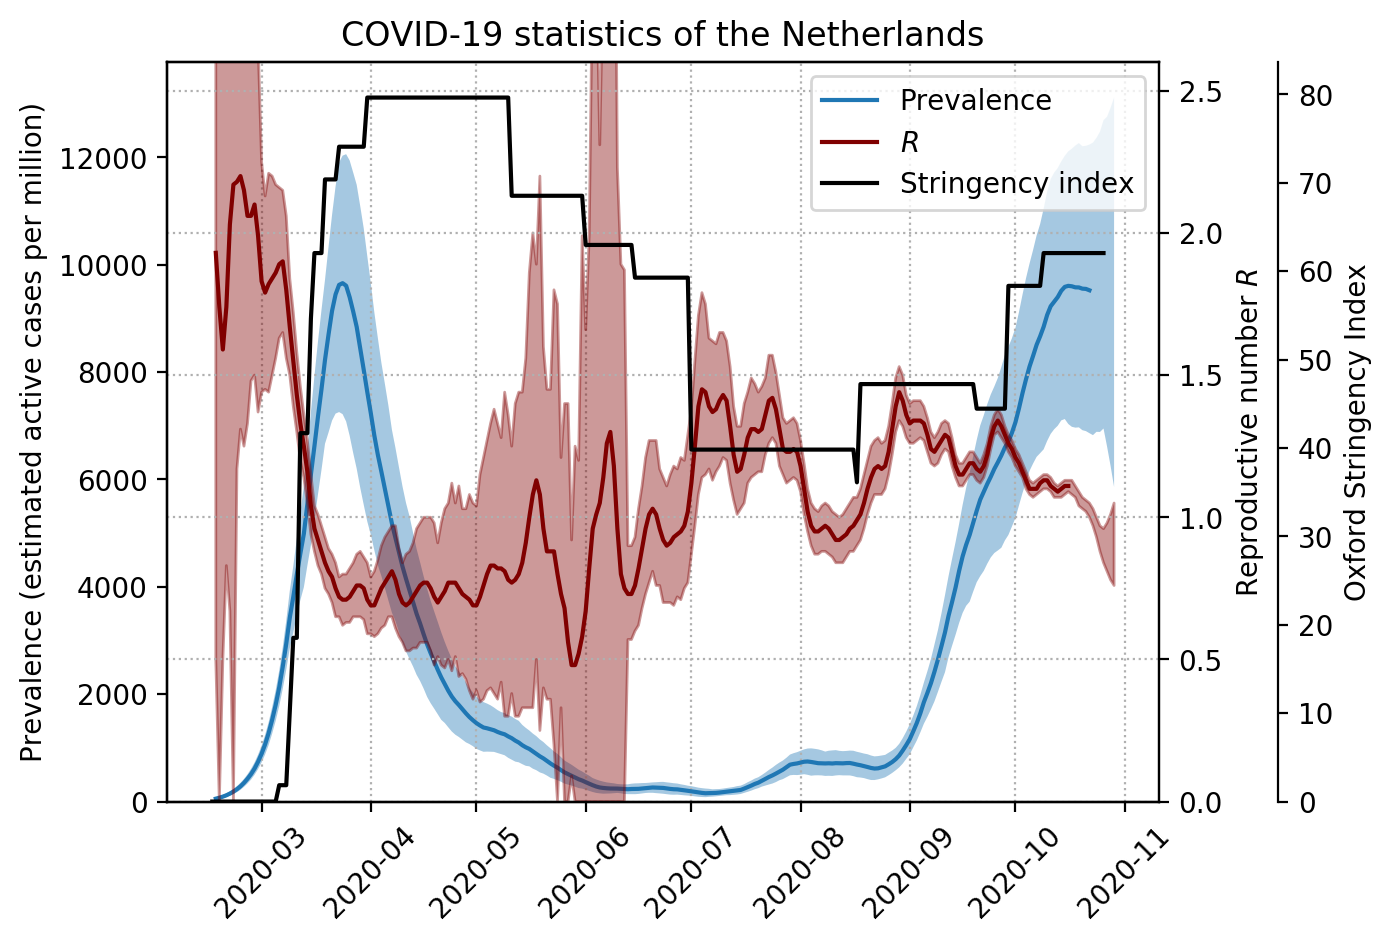
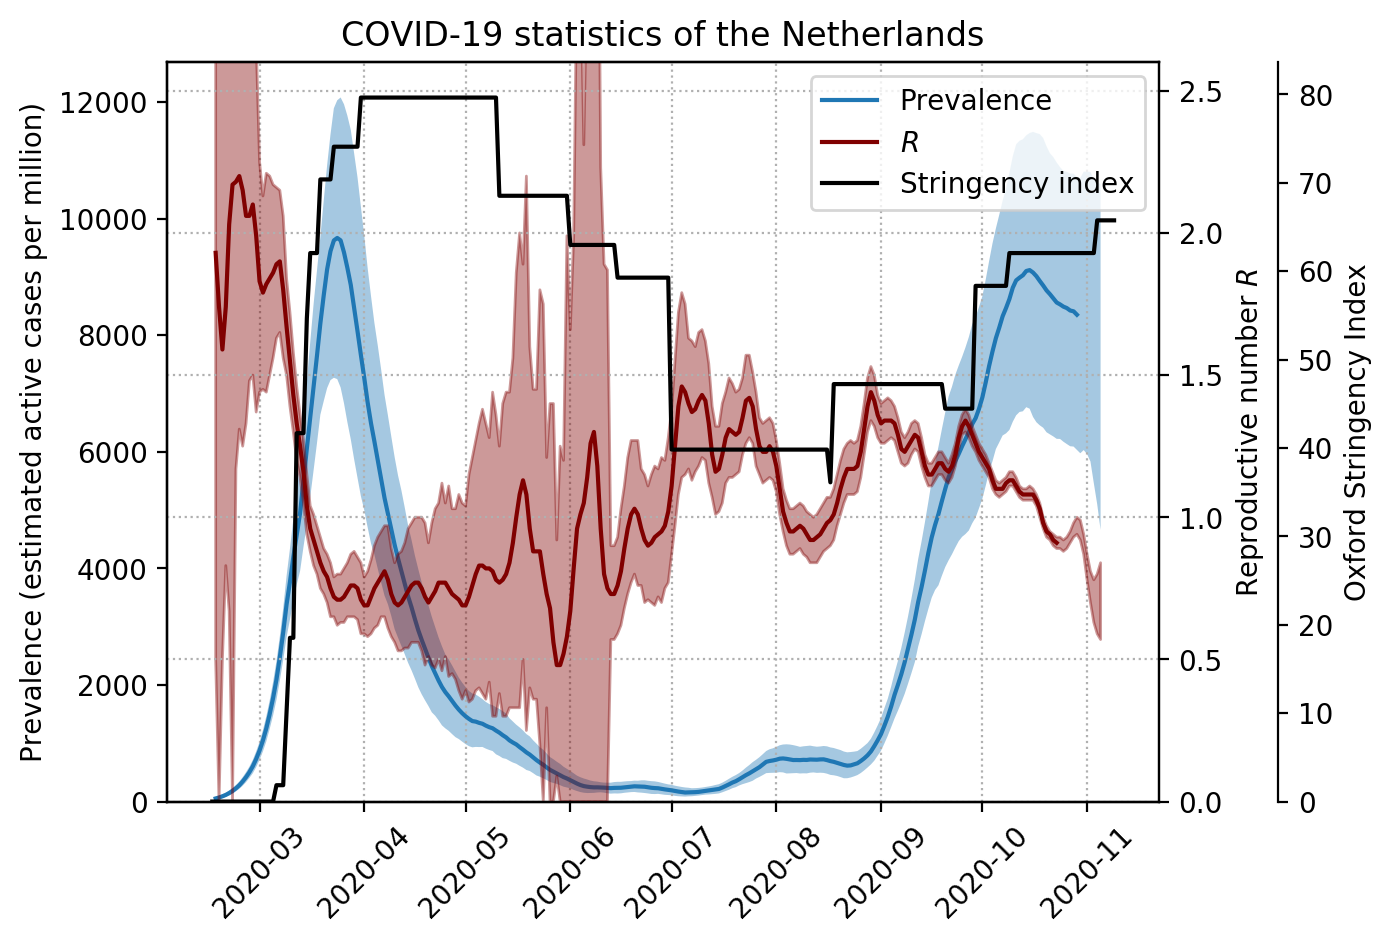
Got new figures

diff --git a/model_coronavirus_supression.py b/model_coronavirus_supression.py
@@ -212,12 +212,12 @@ def load_mobility_data(smooth = False, smoothsize = 7):
 	### now load the apple data
 	#the url changes to the most recent date of availability, so we need to scan
 	#several urls of the past few days
-	apple_mobility_url_base = 'https://covid19-static.cdn-apple.com/covid19-mobility-data/2019HotfixDev32/v3/en-us/applemobilitytrends-'
+	apple_mobility_url_base = 'https://covid19-static.cdn-apple.com/covid19-mobility-data/2019HotfixDev35/v3/en-us/applemobilitytrends-'
 
 	today = dt.datetime.now().date()
 	apple_mob_fname = f'{dataloc}applemobilitytrends-'
 	#make the possible urls, starting with the most recent date
-	for minday in range(5):
+	for minday in range(8):
 		possible_date = today - dt.timedelta(days = minday)
 		apple_mob_possible_url = f'{apple_mobility_url_base}{possible_date}.csv'
 
@@ -1324,7 +1324,7 @@ def estimate_recent_prevalence():
 	#section where the prevalence flattens (seems unrealistic)
 	#need to select after 2020-09-06 because that's when the sewage measurements change to per 100.000
 	startdate = '2020-09-08'
-	enddate = '2020-10-20'
+	enddate = '2020-10-25'
 	df_predictors_sel = df_predictors.loc[(df_predictors.index > startdate) & (df_predictors.index < enddate)]
 	df_prevalence_sel = df_prevalence.loc[(df_prevalence.index > startdate) & (df_prevalence.index < enddate)]
 
@@ -1462,13 +1462,13 @@ def main():
 
 	# plot_superspreader_events()
 
-	# estimate_recent_R()
+	estimate_recent_R()
 
-	# estimate_recent_prevalence()
+	estimate_recent_prevalence()
 
 	# plot_prevalence_R()
 
-	plot_mobility()
+	# plot_mobility()
 
 	# plot_daily_results()
 

diff --git a/README.md b/README.md
@@ -12,7 +12,7 @@ Reproductive number: [link](https://data.rivm.nl/covid-19/COVID-19_reproductiege
 
 More raw data: [link](https://coronadashboard.rijksoverheid.nl/verantwoording)
 
-Weekly update [link](https://www.rivm.nl/documenten/wekelijkse-update-epidemiologische-situatie-covid-19-in-nederland) with:
+Weekly update [link](https://www.rivm.nl/coronavirus-covid-19/actueel) with:
 - Number of tests performed per week
 - Infection context, like at home, at work, pub etc.
 
